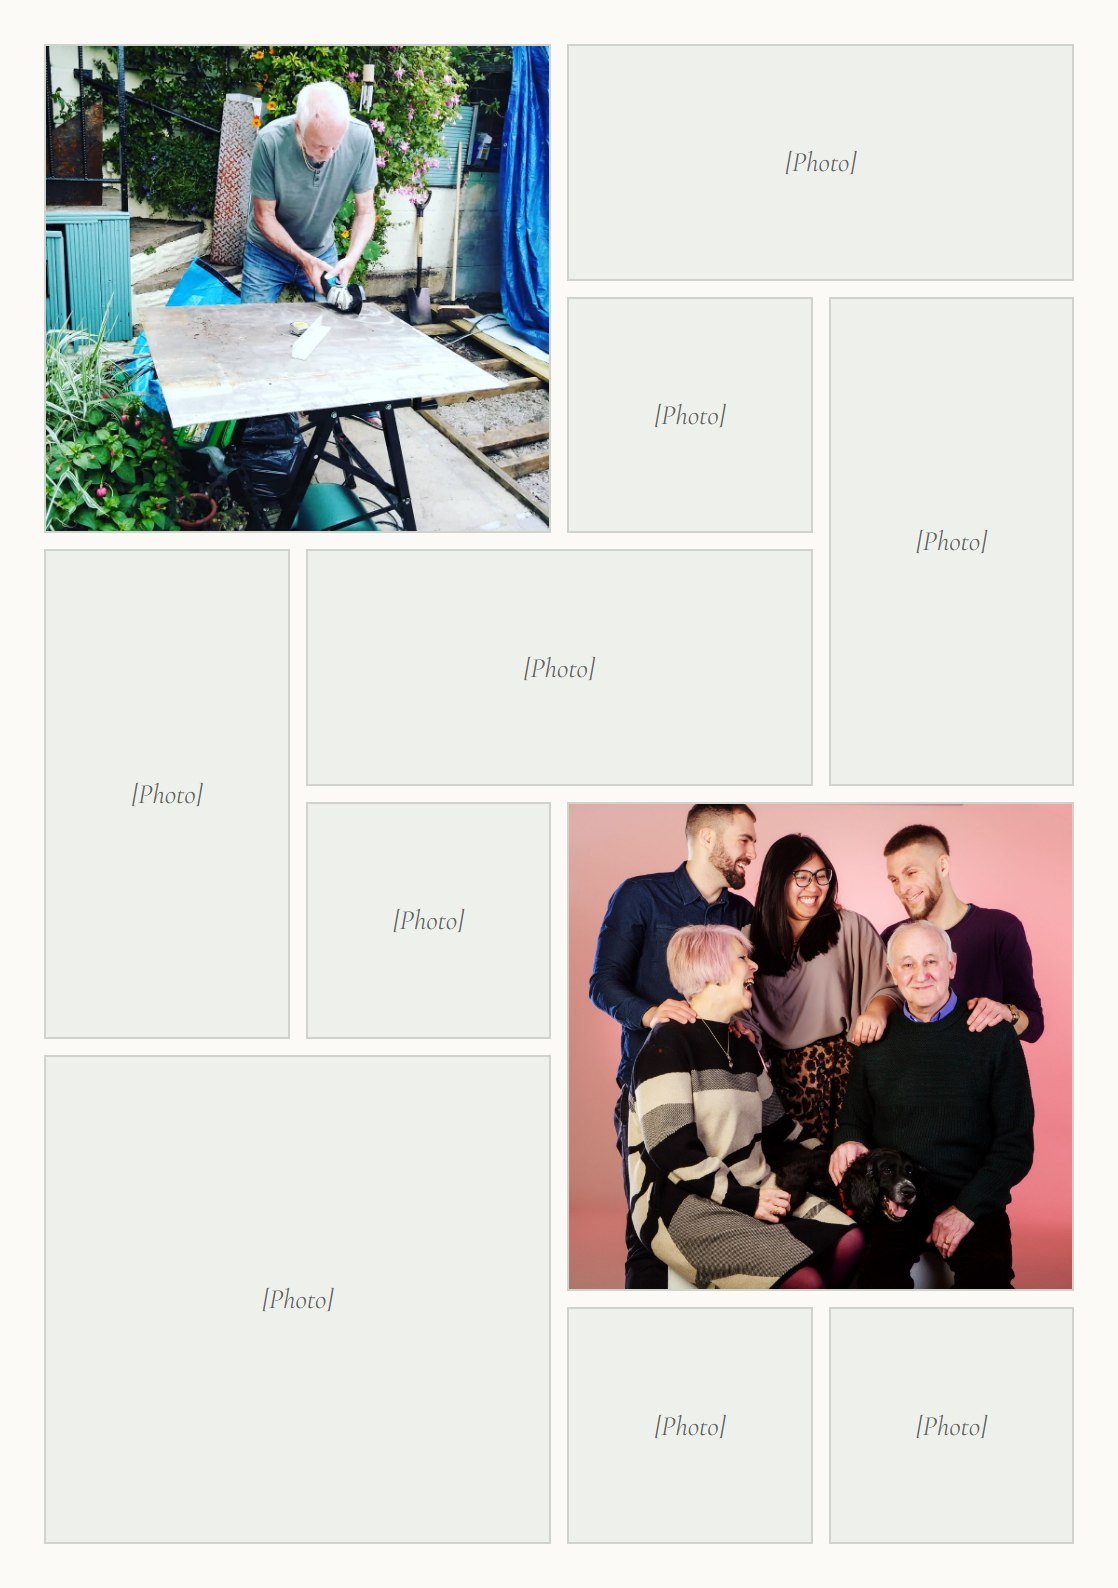
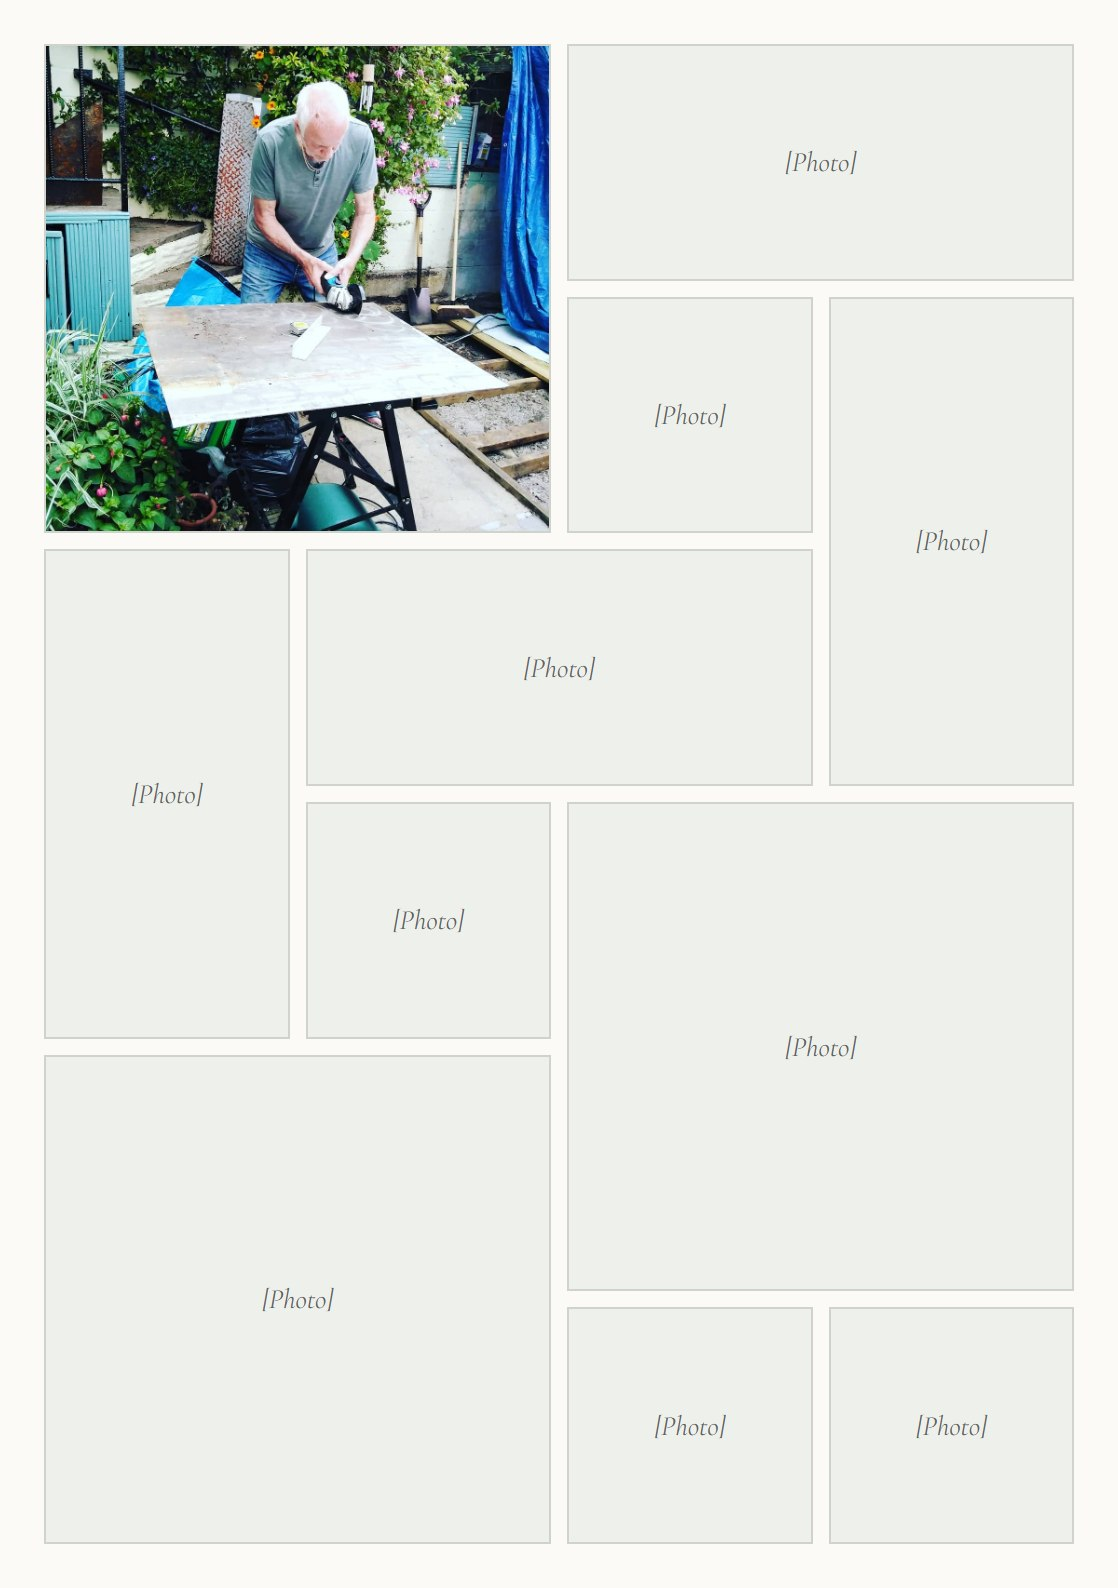
Page 6 family photo; collage update

Changed region(s): [[0.4866, 0.4937, 0.9732, 0.8331]]

diff --git a/index.html b/index.html
@@ -327,8 +327,8 @@ const DRAFTS=[
  ["Order of service","p3","Page 3 · Hymn","drafts/Ivor-3-hymn.jpg?v=2"],
  ["Order of service","p4","Page 4 · Reading","drafts/Ivor-4-reading.jpg?v=9"],
  ["Order of service","p5","Page 5 · Eulogy","drafts/Ivor-5-about-ivor.jpg?v=9"],
- ["Order of service","p6","Page 6 · Remembering Ivor","drafts/Ivor-6-photos.jpg?v=6"],
- ["Order of service","col","Page 7 · Photo collage","drafts/Ivor-7-collage.jpg?v=9"],
+ ["Order of service","p6","Page 6 · Remembering Ivor","drafts/Ivor-6-photos.jpg?v=10"],
+ ["Order of service","col","Page 7 · Photo collage","drafts/Ivor-7-collage.jpg?v=10"],
  ["Order of service","st1","Page 8 · Stories of Ivor","drafts/Ivor-8-stories.jpg"],
  ["Order of service","st2","Page 9 · Stories of Ivor (continued)","drafts/Ivor-9-stories.jpg"],
  ["Order of service","p7","Page 10 · Thank you","drafts/Ivor-7-thank-you.jpg?v=3"],
